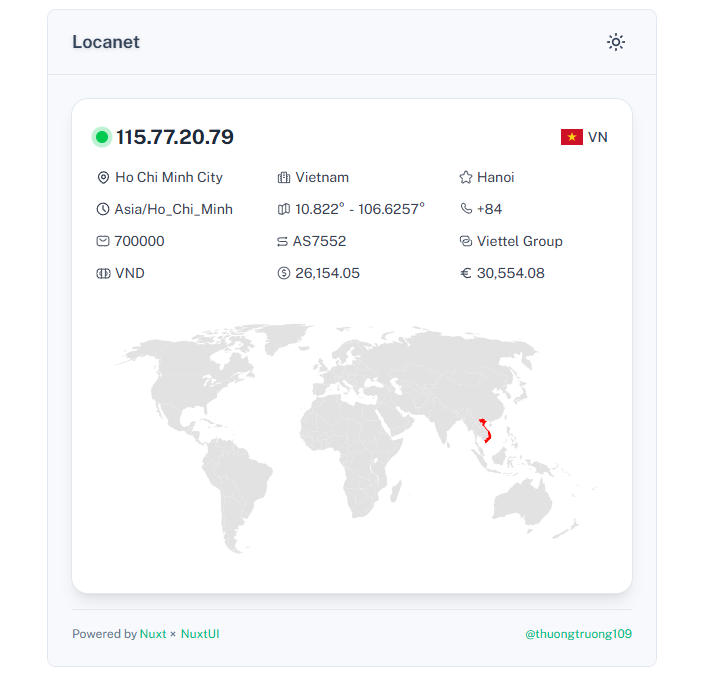
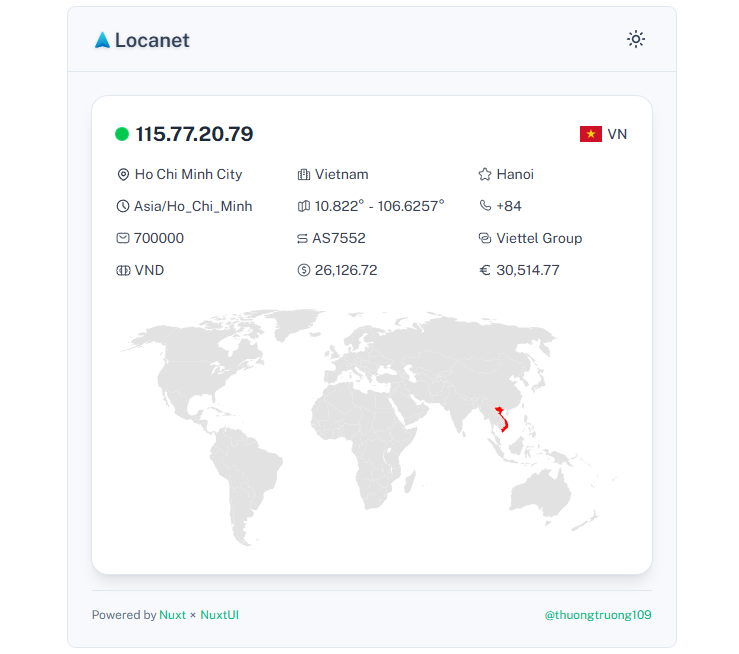
chore: update metadata

diff --git a/app/components/Logo.vue b/app/components/Logo.vue
@@ -1,0 +1,20 @@
+<template>
+  <svg
+    xmlns="http://www.w3.org/2000/svg"
+    version="1.1"
+    width="22"
+    height="22"
+    viewBox="0 0 512 512"
+  >
+    <path
+      d="M0 0 C9.61874361 5.53636987 13.55806356 16.09326724 17.71875 25.80224609 C19.44437862 29.82614497 21.20630566 33.83415046 22.96484375 37.84375 C23.33314301 38.68549774 23.70144226 39.52724548 24.0809021 40.39450073 C28.24654024 49.8842282 32.6304176 59.27045347 37.015625 68.66015625 C43.31409383 82.16618878 49.47379002 95.72268374 55.48486328 109.35888672 C60.8529958 121.5268335 66.39721185 133.60590151 72.015625 145.66015625 C78.3113216 159.16751654 84.47376231 172.72262088 90.48486328 186.35888672 C95.8529958 198.5268335 101.39721185 210.60590151 107.015625 222.66015625 C113.3113216 236.16751654 119.47376231 249.72262088 125.48486328 263.35888672 C130.85300139 275.52684617 136.39771274 287.60565873 142.015625 299.66015625 C148.253368 313.04858679 154.39798346 326.47257835 160.390625 339.97265625 C160.71973877 340.71306152 161.04885254 341.4534668 161.38793945 342.21630859 C163.44855161 346.85646329 165.49244074 351.50356031 167.515625 356.16015625 C168.0211792 357.32321289 168.5267334 358.48626953 169.04760742 359.68457031 C169.50240479 360.75030273 169.95720215 361.81603516 170.42578125 362.9140625 C170.81902588 363.83388916 171.21227051 364.75371582 171.61743164 365.70141602 C173.96382373 372.12449693 172.51197791 377.69205557 169.8515625 383.82421875 C166.75126313 389.24521005 162.29826313 392.11196534 156.515625 394.16015625 C147.33022548 395.46668288 138.59158696 392.68301358 129.83984375 390.234375 C128.29733322 389.81389289 126.75448157 389.39466046 125.21131897 388.97657776 C121.9189208 388.08177236 118.6290584 387.17835802 115.34094238 386.26794434 C110.15661901 384.83262753 104.96692532 383.41745845 99.77636719 382.00488281 C89.90559044 379.31558086 80.04064002 376.60530537 70.17647552 373.89186859 C58.50804992 370.68314606 46.83719245 367.48333383 35.16266537 364.29688168 C30.61156089 363.05399664 26.06293364 361.80253153 21.5161581 360.54390621 C18.69357127 359.76414283 15.86920767 358.99097148 13.04437065 358.21940422 C11.13776481 357.69642623 9.2333884 357.16534106 7.32911682 356.63392639 C4.06920214 355.74722196 0.80554539 354.92727466 -2.484375 354.16015625 C-3.28232986 353.96289948 -4.08028473 353.7656427 -4.90242004 353.56240845 C-13.64877772 352.00875189 -22.36227428 355.36692372 -30.71484375 357.71484375 C-32.52511135 358.21003178 -34.33580675 358.70365817 -36.14689636 359.1958313 C-39.99606936 360.24528467 -43.84209488 361.30534495 -47.68597412 362.37402344 C-53.69730493 364.04501683 -59.71545701 365.69040532 -65.73486328 367.33203125 C-77.65710375 370.58732955 -89.57153277 373.87065624 -101.484375 377.16015625 C-104.87674924 378.09682874 -108.26915367 379.03339162 -111.66162109 379.96972656 C-112.4545094 380.18857828 -113.24739771 380.40743 -114.06431293 380.63291359 C-119.97352999 382.26305349 -125.88518974 383.88414512 -131.79864788 385.4988308 C-135.13762668 386.41135491 -138.47469602 387.32989487 -141.80795288 388.26312256 C-145.45467536 389.28262885 -149.10559955 390.28552999 -152.7578125 391.28515625 C-153.79657028 391.58084503 -154.83532806 391.87653381 -155.90556335 392.18118286 C-163.80644568 394.31523956 -172.1036329 395.90224795 -179.859375 392.53515625 C-185.56285451 389.19937887 -188.64479164 384.50207621 -191.00390625 378.48046875 C-192.42007056 371.64143136 -191.29079775 366.51169185 -188.51171875 360.3046875 C-188.19774643 359.57449905 -187.88377411 358.84431061 -187.56028748 358.09199524 C-186.55420859 355.77231855 -185.52396607 353.46499313 -184.484375 351.16015625 C-184.15254211 350.42295349 -183.82070923 349.68575073 -183.4788208 348.9262085 C-181.41228557 344.35938345 -179.30365797 339.81287315 -177.1802063 335.27227783 C-170.82356395 321.67303087 -164.60166648 308.02125957 -158.546875 294.28515625 C-152.45012849 280.46120699 -146.1490139 266.74101188 -139.76638794 253.04693604 C-134.21787974 241.13627775 -128.78481753 229.18318455 -123.484375 217.16015625 C-116.99228613 202.43770211 -110.27497798 187.82789354 -103.48706055 173.23974609 C-97.92053551 161.27491237 -92.41992773 149.2824149 -86.97412109 137.26220703 C-86.36818039 135.92479729 -85.76222337 134.58739494 -85.15625 133.25 C-84.85695587 132.58933533 -84.55766174 131.92867065 -84.2492981 131.24798584 C-82.03310653 126.35997183 -79.80113961 121.47933198 -77.5625 116.6015625 C-71.1781235 102.68647537 -64.83847025 88.75633803 -58.65145874 74.75219727 C-52.30617716 60.39125093 -45.82462965 46.09792473 -39.234375 31.84765625 C-38.82391937 30.95753845 -38.41346375 30.06742065 -37.99057007 29.15032959 C-36.82017901 26.61418281 -35.64527213 24.08018242 -34.46875 21.546875 C-34.12461563 20.80053299 -33.78048126 20.05419098 -33.42591858 19.28523254 C-26.74384428 4.95884807 -17.60945322 -5.9528812 0 0 Z "
+      fill="#14A5D6"
+      transform="translate(265.484375,64.83984375)"
+    />
+    <path
+      d="M0 0 C3.2109375 1.6953125 3.2109375 1.6953125 6.375 4.125 C6.96168457 4.56730957 7.54836914 5.00961914 8.15283203 5.46533203 C10.1183194 6.95669092 12.05945606 8.47635519 14 10 C15.4473269 11.12055383 16.89526228 12.2403221 18.34375 13.359375 C21.40084308 15.72737739 24.44857239 18.10689507 27.4921875 20.4921875 C31.62018224 23.71811937 35.79777128 26.87167417 40 30 C46.59357134 34.91177349 53.09100911 39.93872597 59.5703125 45 C63.68317462 48.20917096 67.81527159 51.38457374 72 54.5 C77.73408053 58.77090136 83.37035908 63.16158256 89.00683594 67.55981445 C94.23126597 71.63340468 99.48084852 75.67196448 104.75 79.6875 C110.40314338 83.99837692 116.02456525 88.34513963 121.60229492 92.75317383 C124.95038374 95.39736214 128.31474392 98.01850595 131.6953125 100.62109375 C132.50234619 101.2437915 133.30937988 101.86648926 134.14086914 102.50805664 C135.71596163 103.72236577 137.2931649 104.93394359 138.87280273 106.14233398 C142.85928963 109.22015921 146.53822824 112.33943342 150 116 C141.25963997 114.44530972 132.73468854 112.13382184 124.17578125 109.80859375 C122.61225134 109.38629788 121.04864564 108.96428252 119.48497009 108.54252625 C116.15644661 107.64416748 112.82846529 106.74383543 109.50085449 105.84210205 C104.2744826 104.42627605 99.04603194 103.01822827 93.81738281 101.61083984 C77.67231539 97.2621643 61.5358277 92.88598413 45.4244442 88.41399574 C41.08283696 87.21076717 36.73884878 86.01615882 32.39478397 84.82183743 C28.34601865 83.70741781 24.30196213 82.57762243 20.26077366 81.43605137 C17.18281795 80.57132319 14.09873689 79.72893927 11.015625 78.8828125 C9.93675522 78.57244553 8.85788544 78.26207855 7.74632263 77.94230652 C-5.117606 74.46565038 -16.00949742 78.11939792 -28.49609375 81.56640625 C-30.22813705 82.03825131 -31.96037561 82.50938008 -33.6927948 82.97984314 C-37.37054758 83.98016956 -41.04690541 84.98541432 -44.722229 85.99462891 C-50.46073752 87.57021608 -56.2025261 89.13360272 -61.94482422 90.6953125 C-77.30922575 94.87664388 -92.66725851 99.08115333 -108.02061558 103.30285168 C-113.63963244 104.84780242 -119.25987218 106.38824307 -124.88104153 107.92534351 C-129.27942901 109.1288422 -133.67405165 110.34552262 -138.06811523 111.56469727 C-140.30830886 112.17899374 -142.54861701 112.79287276 -144.7890625 113.40625 C-145.79430466 113.68838852 -146.79954681 113.97052704 -147.83525085 114.26121521 C-148.74507217 114.50823685 -149.65489349 114.75525848 -150.59228516 115.00976562 C-151.76991928 115.3353949 -151.76991928 115.3353949 -152.97134399 115.66760254 C-155 116 -155 116 -158 115 C-149.8423268 108.09170017 -141.51442862 101.46280921 -133 95 C-129.60337223 92.41771018 -126.20774584 89.83410648 -122.8125 87.25 C-121.914104 86.56647461 -121.01570801 85.88294922 -120.09008789 85.17871094 C-112.71563226 79.56120995 -105.39199324 73.88070341 -98.08203125 68.1796875 C-92.41046526 63.75716133 -86.70540963 59.37873878 -81 55 C-79.37829536 53.75321885 -77.75696323 52.50595483 -76.13574219 51.25854492 C-75.04927433 50.42261331 -73.96268666 49.58683738 -72.87597656 48.7512207 C-70.15385834 46.65800848 -67.43309676 44.5630735 -64.71484375 42.46484375 C-58.69596129 37.82155212 -52.64590909 33.22400108 -46.5546875 28.67578125 C-42.80970233 25.86759538 -39.09721382 23.01726556 -35.3815918 20.17041016 C-31.7613585 17.40209077 -28.12920386 14.64966862 -24.49560547 11.89892578 C-22.25741319 10.19586772 -20.03568723 8.47364849 -17.81640625 6.74609375 C-16.60764624 5.82957349 -15.39808005 4.91411492 -14.1875 4 C-13.17042969 3.21625 -12.15335938 2.4325 -11.10546875 1.625 C-7.19930753 -0.4189787 -4.31912912 -0.86414907 0 0 Z "
+      fill="#006EC3"
+      transform="translate(260,342)"
+    />
+  </svg>
+</template>

diff --git a/app/components/Info.vue b/app/components/Info.vue
@@ -2,6 +2,8 @@
 import { infoQuery } from "~/queries/info";
 
 const { data: info } = useQuery(infoQuery);
+
+const SvgMap = defineAsyncComponent(() => import("@/components/Map.vue"));
 </script>
 
 <template>
@@ -30,6 +32,7 @@ const { data: info } = useQuery(infoQuery);
       <div class="flex items-center space-x-1">
         <img
           :src="`https://flagsapi.com/${info.data.CountryCode}/flat/24.png`"
+          alt="Country Flag"
         />
         <span class="text-sm font-medium">{{ info.data.CountryCode }}</span>
       </div>
@@ -92,12 +95,11 @@ const { data: info } = useQuery(infoQuery);
       </p>
     </div>
 
-    <client-only>
-      <Map
-        class="mt-4"
+    <ClientOnly>
+      <SvgMap
         :country-code="info.data.CountryCode"
         :country-name="info.data.CountryName"
       />
-    </client-only>
+    </ClientOnly>
   </UCard>
 </template>

diff --git a/app/components/Map.vue b/app/components/Map.vue
@@ -21,8 +21,8 @@ const props = defineProps({
 
 const map = ref(null);
 
-onMounted(() => {
-  new svgMap({
+onMounted(async () => {
+  await new svgMap({
     targetElementID: "svgMap",
     mouseWheelZoomEnabled: false,
     hideFlag: false,
@@ -44,20 +44,20 @@ onMounted(() => {
       },
     },
   });
-});
 
-const highlightCountry = (id) => {
-  const el = document.querySelector(`[data-id="${id}"]`);
-  if (el) {
-    el.setAttribute("fill", "#ff0000");
-  }
-};
-
-onMounted(() => {
   setTimeout(() => {
     highlightCountry(props.countryCode);
   }, 100);
 });
+
+const highlightCountry = (id) => {
+  if (import.meta.client) {
+    const el = document?.querySelector(`[data-id="${id}"]`);
+    if (el) {
+      el.setAttribute("fill", "#ff0000");
+    }
+  }
+};
 
 watch(
   () => props.countryCode,

diff --git a/app/app.vue b/app/app.vue
@@ -7,13 +7,11 @@ useHead({
 useSeoMeta({
   viewport: "width=device-width, initial-scale=1, maximum-scale=1",
   title: "Locanet",
-  description: "Location information of the user based on the IP address",
-  ogImage: "/social-image.png",
-  twitterImage: "/social-image.png",
+  description: "Detect user access location information along with IP address",
+  ogImage: "/banner.png",
+  twitterImage: "/banner.png",
   twitterCard: "summary_large_image",
 });
-
-const SvgMap = defineAsyncComponent(() => import("@/components/Map.vue"));
 </script>
 
 <template>

diff --git a/app/components/Header.vue b/app/components/Header.vue
@@ -9,8 +9,11 @@ const isDarkMode = computed({
 </script>
 
 <template>
-  <h3 class="text-lg font-semibold leading-6 drop-shadow-sm">
-    <NuxtLink to="/">Locanet</NuxtLink>
+  <h3
+    class="text-xl font-semibold leading-6 drop-shadow-sm flex items-center space-x-0.5"
+  >
+    <Logo />
+    <NuxtLink to="/" class="translate-y-px">Locanet</NuxtLink>
   </h3>
   <UButton
     square

diff --git a/README.md b/README.md
@@ -1,6 +1,24 @@
-# Locanet
+<div align="center">
+    <img src="./public/banner.png" alt="banner"/>
+    <p>Detect user access location information along with IP address</p>
+    <a href="https://locanet.vercel.app" target="_blank">
+        <img src="https://img.shields.io/badge/Demo-green?logo=nuxt&logoColor=white" alt="Demo badge" />
+    </a>
+    <a href="./LICENSE" target="_blank">
+        <img src="https://img.shields.io/badge/MIT%20License-pink?logo=opensource&logoColor=white" alt="License badge" />
+    </a>
+     <!-- <a href="https://svgmap.com" target="_blank">
+        <img src="https://img.shields.io/badge/svgmap-v2.12-blue?logo=svg&logoColor=white" alt="SVG Map badge" />
+    </a> -->
+    <img src="./public/demo.png" alt="demo" />
+</div>
 
-> Location information of the user based on the IP address.
+## Features
+
+- Server-Side Rendering with [Nuxt](https://nuxt.com/docs/getting-started/ssr)
+- User interface made with [Nuxt UI](https://ui.nuxt.com) x [Nuxt Icon](https://icon.nuxt.com)
+- Cache invalidation and Optimistic UI with [Pinia Nuxt](https://pinia.esm.dev) x [Pinia Colada](https://pinia-colada.esm.dev)
+- Map visualization with [svgmap](https://www.npmjs.com/package/svgmap)
 
 ## Development
 
@@ -14,12 +32,7 @@ npm run dev
 
 [MIT License](./LICENSE)
 
-<!-- ## Features
+## References
 
-- [Server-Side Rendering on the Edge](https://nuxt.com/blog/nuxt-on-the-edge)
-- Authentication backed-in using [nuxt-auth-utils](https://github.com/atinux/nuxt-auth-utils)
-- Leverage [Cloudflare D1](https://developers.cloudflare.com/d1/) as database with [drizzle ORM](https://orm.drizzle.team/) using [`hubDatabase()`](https://hub.nuxt.com/docs/storage/database)
-- [Automatic database migrations](https://hub.nuxt.com/docs/features/database#database-migrations) in development & when deploying
-- User interface made with [Nuxt UI](https://ui.nuxt.com)
-- Embed [Drizzle Studio](https://orm.drizzle.team/drizzle-studio/overview/) in the [Nuxt DevTools](https://devtools.nuxt.com)
-- Cache invalidation and Optimistic UI with [Pinia Colada](https://pinia-colada.esm.dev) -->
+<!-- https://www.iplocation.net/ip-lookup -->
+<!-- https://img.icons8.com/fluency/21/gps-device.png -->
